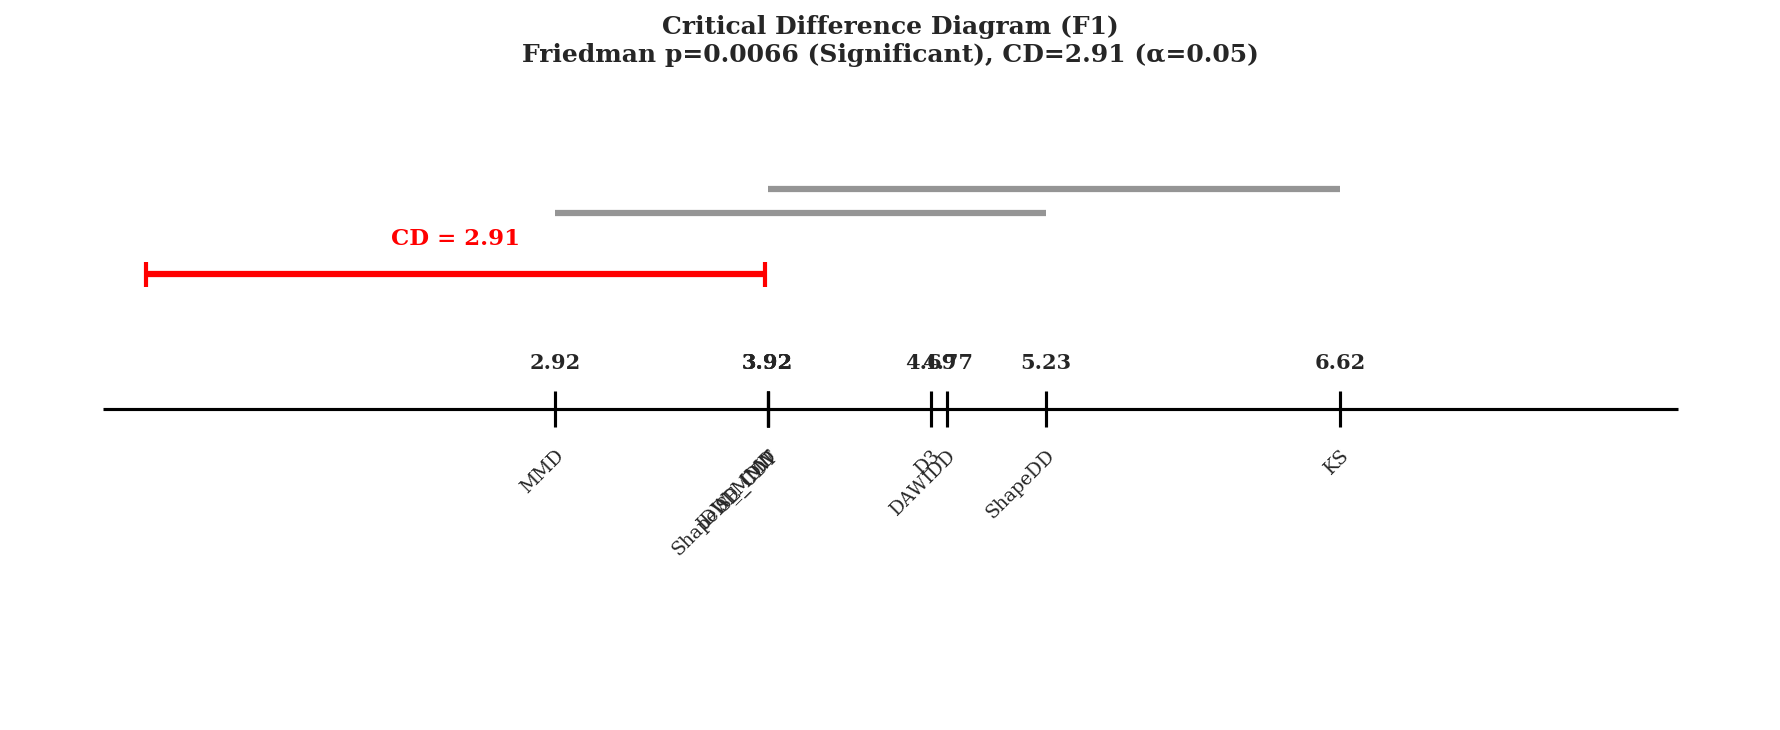
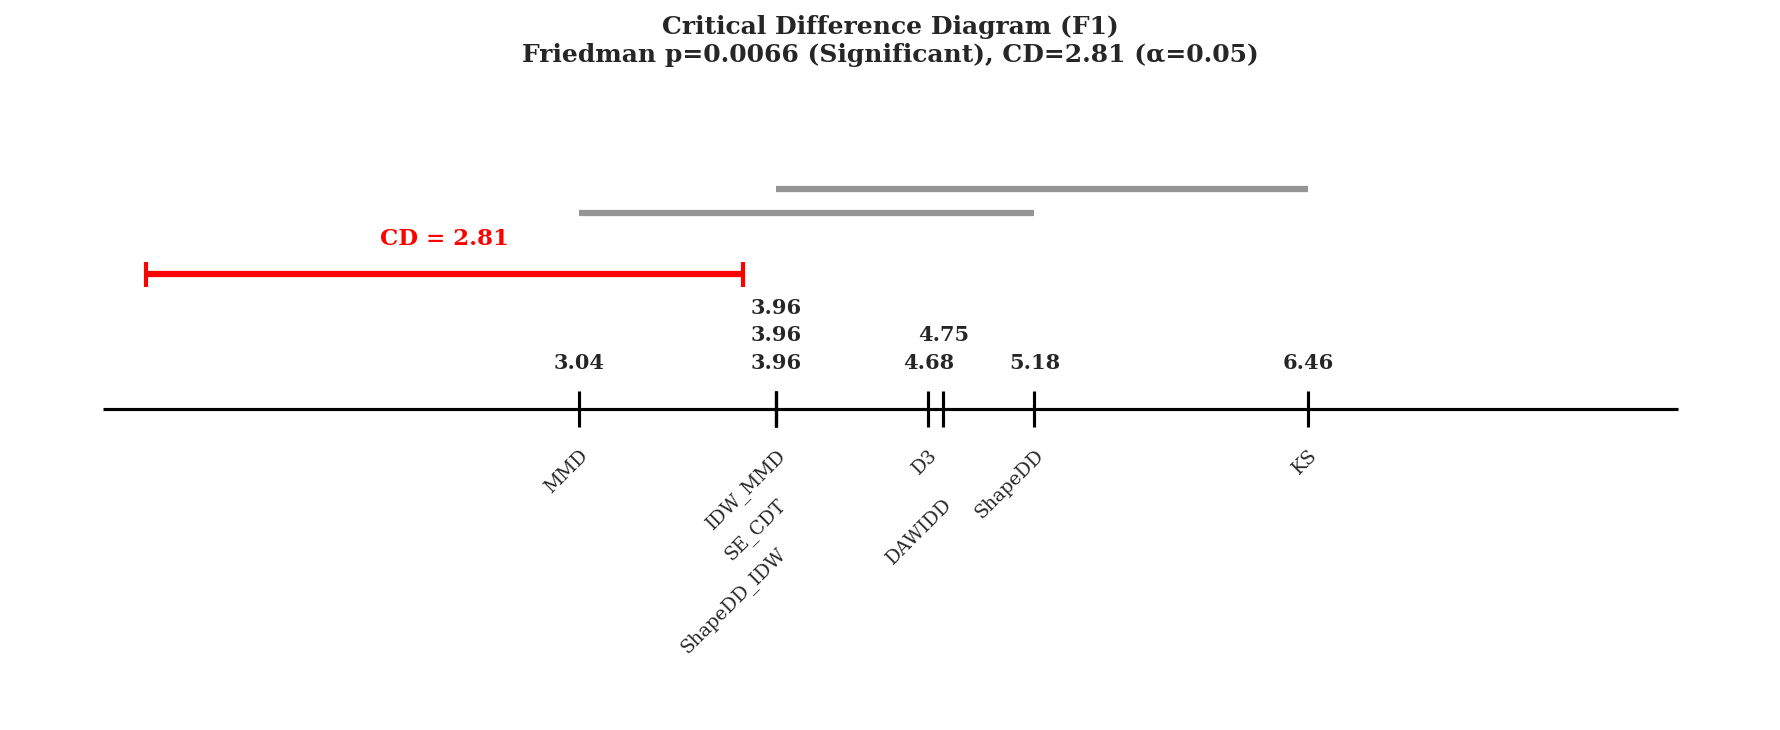
Enhance critical difference diagram plotting for improved label readability
- Implemented a mechanism to assign vertical levels to nearby labels in the critical difference diagram, reducing overlap and enhancing clarity.
- Adjusted label positions for rank numbers and method names to maintain readability.
- Updated the function call in the figure generation process to ensure correct data is used for plotting.
- Minor updates to LaTeX presentation materials for consistency in terminology and clarity.

diff --git a/report/latex/chapters/04_experiments_evaluation.tex b/report/latex/chapters/04_experiments_evaluation.tex
@@ -142,7 +142,14 @@ Bảng~\ref{tab:comprehensive_performance} so sánh hiệu suất của \textbf{
 	\label{fig:critical_difference}
 \end{figure}
 
-Kết quả kiểm định Friedman cho thấy MMD cơ bản có thứ hạng trung bình tốt nhất (3.679), tiếp theo là IDW-MMD (4.107) và DAWIDD (4.179). SE-CDT xếp hạng 5 (4.643, đồng hạng với ShapeDD-IDW theo bảng thống kê). Với ngưỡng Critical Difference CD = 2.806 ($\alpha = 0.05$), hai phương pháp được coi là không khác biệt thống kê khi khoảng cách thứ hạng nhỏ hơn CD. Khoảng cách giữa SE-CDT và phương pháp dẫn đầu (MMD) là $4.643 - 3.679 = 0.964 < 2.806$, do đó về F1 thì các phương pháp nhóm dẫn đầu không khác biệt có ý nghĩa thống kê.
+\begin{table}[H]
+	\centering
+	\caption{Thứ hạng trung bình theo F1-score trong kiểm định Friedman/Nemenyi}
+	\label{tab:statistical_tests}
+	\input{../../results/tables/table_statistical_tests.tex}
+\end{table}
+
+Kết quả kiểm định Friedman/Nemenyi trong Bảng~\ref{tab:statistical_tests} cho thấy MMD cơ bản có thứ hạng trung bình tốt nhất (3.036). Ba phương pháp IDW-MMD, SE-CDT và ShapeDD-IDW cùng đạt thứ hạng trung bình 3.964. Với ngưỡng Critical Difference CD $= 2.806$ ($\alpha = 0.05$), khoảng cách giữa SE-CDT và MMD là $3.964 - 3.036 = 0.928 < 2.806$, nên khác biệt về thứ hạng F1 giữa hai phương pháp này chưa đủ để kết luận có ý nghĩa thống kê. Điều này không mâu thuẫn với Bảng~\ref{tab:comprehensive_performance}: D3 có F1 trung bình cao nhất, còn Friedman/Nemenyi xếp hạng theo từng dataset nên phản ánh độ ổn định tương đối giữa các tập dữ liệu.
 
 SE-CDT và ShapeDD-IDW có số FP trung bình thấp hơn ShapeDD gốc (Bảng~\ref{tab:comprehensive_performance}); hành vi của bước kiểm định được phân tích thêm ở Mục~\ref{sec:h0-calibration}.
 
@@ -191,7 +198,7 @@ Hiệu suất của các phương pháp thay đổi tùy thuộc vào đặc tí
 	\item \textbf{Blip Drift:}
 	      Trên tập RBF Blips, ba phương pháp đề xuất đạt F1 $= 0.598$ ở bài toán phát hiện, gần với MMD chuẩn ($0.602$), trong khi D3 đạt cao hơn hẳn ($1.000$) nhờ classifier phân biệt cửa sổ trước và sau blip. Điều này cho thấy các thay đổi ngắn hạn có thể được phát hiện, nhưng việc phân loại đúng Blip vẫn còn khó; hạn chế này được phân tích riêng ở Mục~\ref{sec:classification-by-type}.
 	\item \textbf{Báo động giả (False Positives trong detection):}
-	      Hình~\ref{fig:stationary_fp} so sánh số FP trong bộ đánh giá phát hiện. KS-Test ghi nhận nhiều báo động sai nhất (37.8 FP/run); ba phương pháp đề xuất (SE-CDT, ShapeDD-IDW, IDW-MMD) giữ FP ở mức trung bình $\sim 14.5$/run, thấp hơn ShapeDD gốc (18.4 FP/run) và gần MMD chuẩn (15.0 FP/run). Có hai lý do giúp bước lọc này phát huy tác dụng: (i) cơ chế phát hiện hình dạng yêu cầu tín hiệu MMD phải khớp dạng tam giác đặc trưng; (ii) băng thông kernel $\gamma$ được ước lượng một lần bằng median heuristic và dùng chung cho cả ba kernel $K_{XX}, K_{YY}, K_{XY}$.
+	      Bảng~\ref{tab:comprehensive_performance} báo cáo FP trung bình theo mỗi run trên toàn bộ bộ đánh giá: KS-Test cao nhất (37.8 FP/run), trong khi ba phương pháp đề xuất (SE-CDT, ShapeDD-IDW, IDW-MMD) ở mức $\sim 14.5$ FP/run, thấp hơn ShapeDD gốc (18.4 FP/run) và gần MMD chuẩn (15.0 FP/run). Riêng Hình~\ref{fig:stationary_fp} hiển thị tổng số báo động giả trên tập dữ liệu tĩnh; do đó con số trong hình là tổng cộng sau khi gộp nhiều lần chạy, không phải FP/run. Có hai lý do giúp bước lọc này phát huy tác dụng: (i) cơ chế phát hiện hình dạng yêu cầu tín hiệu MMD phải khớp dạng tam giác đặc trưng; (ii) băng thông kernel $\gamma$ được ước lượng một lần bằng median heuristic và dùng chung cho cả ba kernel $K_{XX}, K_{YY}, K_{XY}$.
 \end{enumerate}
 
 \begin{figure}[H]
@@ -211,7 +218,7 @@ Hiệu suất của các phương pháp thay đổi tùy thuộc vào đặc tí
 \begin{figure}[H]
 	\centering
 	\includegraphics[width=0.9\textwidth]{../../results/plots/figure_4_stationary_fp.png}
-	\caption[Phân tích số lượng báo động giả trên tập dữ liệu tĩnh]{Phân tích số lượng báo động giả trên tập dữ liệu tĩnh (Stationary). KS tạo ra nhiều báo động sai nhất, trong khi các phương pháp MMD và D3 ổn định hơn.}
+	\caption[Phân tích số lượng báo động giả trên tập dữ liệu tĩnh]{Tổng số báo động giả trên tập dữ liệu tĩnh (Stationary), gộp qua các lần chạy trong benchmark. Chỉ số này bổ sung cho FP/run ở Bảng~\ref{tab:comprehensive_performance}: KS tạo ra nhiều báo động sai nhất, trong khi các phương pháp MMD-based thấp hơn rõ rệt.}
 	\label{fig:stationary_fp}
 \end{figure}
 
@@ -260,7 +267,7 @@ Bảng~\ref{tab:runtime_stats} so sánh thời gian và thông lượng.
 	\label{fig:runtime-comparison}
 \end{figure}
 
-Kết quả nổi bật là ShapeDD gốc, ShapeDD-IDW, SE-CDT và MMD chuẩn đều có thời gian chạy cùng cỡ trên luồng 10{,}000 mẫu (Bảng~\ref{tab:runtime_stats}). ShapeDD gốc đã được tối ưu khá tốt nhờ tính kernel theo lô, nên việc thay permutation test bằng xấp xỉ Gamma không làm thời gian chạy giảm mạnh, nhưng cũng không làm hệ thống chậm hơn. Đóng góp chính của ShapeDD-IDW trong thí nghiệm này là giữ được thời gian chạy tương đương ShapeDD gốc trong khi bước kiểm định có cơ sở thống kê rõ hơn (Mục~\ref{sec:h0-calibration}).
+Kết quả nổi bật là ShapeDD gốc, ShapeDD-IDW, SE-CDT và MMD chuẩn đều có thời gian chạy cùng cỡ trên luồng 10{,}000 mẫu (Bảng~\ref{tab:runtime_stats}). ShapeDD gốc đã được tối ưu khá tốt nhờ tính kernel theo lô, nên việc thay permutation test bằng xấp xỉ Gamma không làm thời gian chạy giảm mạnh theo bậc độ phức tạp, nhưng vẫn giúp ShapeDD-IDW nhanh hơn khoảng $1.27\times$ trong phép đo đầu-cuối hiện tại. Đóng góp chính của ShapeDD-IDW trong thí nghiệm này là giữ chi phí cùng cỡ với ShapeDD gốc trong khi bước kiểm định có cơ sở thống kê rõ hơn (Mục~\ref{sec:h0-calibration}).
 
 \section{Đánh giá SE-CDT phân loại drift không giám sát}
 \label{sec:classification-eval}
@@ -341,7 +348,7 @@ Bảng~\ref{tab:se-cdt-results} trình bày kết quả tổng hợp trên 1800 
 
 SE-CDT (Std) đạt \textbf{CAT $= 81.5\%$} và \textbf{SUB micro-average $= 65.6\%$} ở oracle mode. Vì micro-average bị chi phối bởi lớp đông nhất (Sudden), bảng \ref{tab:se-cdt-performance-by-type} cũng báo cáo \textbf{macro-average per-class $= 54.0\%$} để phản ánh độ cân bằng giữa 5 nhóm drift. Khi đọc kết quả trong các phần sau, cần lưu ý sự khác biệt giữa hai metric này: macro-average mới phản ánh đúng độ cân bằng của bộ phân loại trên 5 nhóm drift, trong khi micro-average tỏ ra cao hơn nhờ phân phối lớp lệch về Sudden và Recurrent trong các kịch bản benchmark.
 
-Khi không có Concept Memory, Recurrent drift bị xử lý như một chuỗi sự kiện Sudden độc lập và độ chính xác là $0\%$. Sau khi bổ sung Concept Memory (so khớp ring buffer bằng Standard MMD), độ chính xác Recurrent đạt \textbf{89.0\%}, vượt cả CDT-MSW gốc ($83.9\%$ trên benchmark UCI khác). Kết quả này cho thấy Concept Memory hoạt động đúng nguyên lý khi dữ liệu đầu vào tuân theo đúng định nghĩa Recurrent của Lu et al.~\cite{lu2018learning}.
+Khi không có Concept Memory, Recurrent drift bị xử lý như một chuỗi sự kiện Sudden độc lập và độ chính xác là $0\%$. Sau khi bổ sung Concept Memory (so khớp ring buffer bằng Standard MMD), độ chính xác Recurrent đạt \textbf{89.0\%}, cùng mức cao với kết quả recurrent mà CDT-MSW công bố ($83.9\%$ trên benchmark UCI khác). Kết quả này cho thấy Concept Memory hoạt động đúng nguyên lý khi dữ liệu đầu vào tuân theo đúng định nghĩa Recurrent của Lu et al.~\cite{lu2018learning}.
 
 \subsection{Phân tích chi tiết theo loại drift}
 \label{sec:classification-by-type}
@@ -393,14 +400,14 @@ Bảng~\ref{tab:cdt-comparison-by-type} so sánh với CDT-MSW~\cite{guo2022cdtm
 	\input{../../results/tables/table_cdt_msw_vs_se_cdt_by_drift_type.tex}
 \end{table}
 
-\textbf{Cảnh báo về tính tham khảo của bảng so sánh.} Bảng~\ref{tab:cdt-comparison-by-type} đặt cạnh nhau các con số được công bố trong paper gốc CDT-MSW~\cite{guo2022cdtmsw} (cột trái) và các con số đo trên benchmark synthetic của luận văn (cột phải). Đây \textit{không} phải là so sánh đối đầu (head-to-head) trên cùng một benchmark; hai cột vận hành trên hai phân phối dữ liệu, hai chế độ giám sát, và hai cách tính tổng hợp khác nhau:
+\textbf{Cảnh báo về tính tham khảo của bảng so sánh.} Bảng~\ref{tab:cdt-comparison-by-type} đặt cạnh nhau các con số được công bố trong bài báo CDT-MSW~\cite{guo2022cdtmsw} (cột trái) và các con số đo trên benchmark synthetic của luận văn (cột phải). Đây \textit{không} phải là so sánh trực tiếp trên cùng một benchmark; hai cột vận hành trên hai phân phối dữ liệu, hai chế độ giám sát, và hai cách tính tổng hợp khác nhau:
 \begin{itemize}
 	\item \textbf{Dữ liệu khác nhau:} CDT-MSW chạy trên 10 tập UCI thực tế (Banana, Titanic, Thyroid, KDDCup99, MITface, USPS, \dots) với số lượng features và độ phức tạp khác nhau; SE-CDT chạy trên 6 kịch bản synthetic Gaussian 5 chiều đã mô tả ở Mục~\ref{sec:classification-setup}.
 	\item \textbf{Mức giám sát khác nhau:} CDT-MSW là phương pháp \textit{supervised}, dùng nhãn $y$ để tính accuracy ratio; SE-CDT là \textit{unsupervised}, chỉ dựa trên $P(X)$.
 	\item \textbf{Cách tính khác nhau:} ACC\_subcat của CDT-MSW là \textit{conditional} (tính trên các drift đã được phát hiện đúng và phân nhóm đúng); SUB của SE-CDT là \textit{unconditional} (tính trên toàn bộ sự kiện ground truth, kể cả những lần phát hiện sai). Với SE-CDT, macro-average theo lớp là $54.0\%$ như đã trình bày ở Bảng~\ref{tab:se-cdt-performance-by-type}.
-	\item \textbf{Recall không cùng metric:} Trên paper gốc, CDT-MSW đạt MDR trung bình $17.5\%$, tương đương $\text{Recall} = 1 - \overline{\text{MDR}} = 82.5\%$\footnote{Trong paper~\cite{guo2022cdtmsw}, từ ``EDR'' được định nghĩa là \textit{Error Detection Rate} (tỉ lệ báo nhầm, càng thấp càng tốt), khác với cách đặt tên EDR (\textit{Event Detection Rate}, tương đương Recall) ở luận văn này. Vì vậy giá trị 82.5\% được suy từ MDR Bảng 5 của paper.}.
+	\item \textbf{Recall không cùng metric:} Trong bài báo gốc, CDT-MSW đạt MDR trung bình $17.5\%$, tương đương $\text{Recall} = 1 - \overline{\text{MDR}} = 82.5\%$\footnote{Trong bài báo~\cite{guo2022cdtmsw}, từ ``EDR'' được định nghĩa là \textit{Error Detection Rate} (tỉ lệ báo nhầm, càng thấp càng tốt), khác với cách đặt tên EDR (\textit{Event Detection Rate}, tương đương Recall) ở luận văn này. Vì vậy giá trị 82.5\% được suy từ MDR Bảng 5 của bài báo.}.
 \end{itemize}
-Vì các điều kiện vận hành khác nhau, bảng nên được đọc theo nghĩa: SE-CDT chạy không cần nhãn trên dữ liệu Gaussian 5-D có ground truth chính xác, và đạt được mức accuracy phân loại nằm trong phạm vi cạnh tranh với CDT-MSW supervised trên dữ liệu UCI thực tế. Luận văn không khẳng định SE-CDT vượt CDT-MSW trên cùng setup. Một so sánh đối đầu thực sự cần triển khai SE-CDT trên chính các tập UCI gốc và đo lại CDT-MSW trên dữ liệu synthetic của luận văn; đây là hướng phát triển tự nhiên (Chương~\ref{chap:conclusion}).
+Vì các điều kiện vận hành khác nhau, bảng nên được đọc theo nghĩa: SE-CDT chạy không cần nhãn trên dữ liệu Gaussian 5-D có ground truth chính xác, và đạt được mức accuracy phân loại nằm trong phạm vi cạnh tranh với CDT-MSW supervised trên dữ liệu UCI thực tế. Luận văn không khẳng định SE-CDT vượt CDT-MSW trên cùng thiết lập. Một so sánh trực tiếp thực sự cần triển khai SE-CDT trên chính các tập UCI gốc và đo lại CDT-MSW trên dữ liệu synthetic của luận văn; đây là hướng phát triển tự nhiên (Chương~\ref{chap:conclusion}).
 
 \section{Đánh giá khả năng thích ứng mô hình}
 \label{sec:adaptation-eval}
@@ -459,14 +466,14 @@ Bảng~\ref{tab:prequential-results} tổng hợp kết quả Prequential Accura
 	\item Sudden:   $\chi^2 = 86.76$, $p = 1.09 \times 10^{-18}$
 	\item Mixed:    $\chi^2 = 76.32$, $p = 1.89 \times 10^{-16}$
 \end{itemize}
-Trên cả ba kịch bản, $p \ll 0.05$ nên có đủ bằng chứng thống kê để bác bỏ giả thuyết H0 ``bốn chiến lược cho cùng phân phối accuracy''. Khác biệt giữa các chiến lược do đó là có ý nghĩa thống kê chứ không phải dao động ngẫu nhiên.
+Trên cả ba kịch bản, $p \ll 0.05$ nên có đủ bằng chứng thống kê để bác bỏ giả thuyết H0 ``bốn chiến lược cho cùng phân phối accuracy''. Kết quả này xác nhận khác biệt tổng thể giữa các chiến lược; các chênh lệch theo từng cặp bên dưới được diễn giải theo độ lớn quan sát được, không thay cho một kiểm định hậu nghiệm riêng cho từng cặp.
 
 \begin{itemize}
 	\item \textbf{Stepping ($+16.57$pp so với No Adaptation):} Khi không thích ứng, độ chính xác giảm về $54.80\%$ do phân phối liên tục dịch chuyển. Type-Specific giữ ở $71.37\%$, hơn Simple Retrain $+8.42$pp và Periodic Retrain $+7.34$pp. Hai baseline retrain không phân biệt loại đạt kết quả gần như nhau (khoảng $63\%$), cho thấy việc lựa chọn chiến lược theo loại drift đem lại lợi ích lớn hơn việc chỉ chọn thời điểm retrain.
 	\item \textbf{Sudden ($+17.10$pp so với No Adaptation):} Type-Specific đạt $70.78\%$, hơn Simple Retrain $+8.62$pp và Periodic Retrain $+7.13$pp. Mỗi sự kiện ở đây là concept mới, vì vậy chiến lược Full Reset trên cửa sổ post-drift hoạt động đúng nhịp: mô hình cũ bị thay thế ngay khi không còn phù hợp, tránh kéo theo dữ liệu pre-drift đã không còn giá trị.
 	\item \textbf{Mixed ($+3.51$pp so với No Adaptation):} Type-Specific đạt $86.20\%$, hơn Simple Retrain $+1.96$pp và Periodic Retrain $+0.11$pp. Trên kịch bản này, Periodic Retrain bám sát Type-Specific vì lịch retrain định kỳ ($500$ mẫu) trùng nhịp với mật độ drift dày đặc; nhưng Periodic Retrain có FP cao gấp $\sim 6\times$ ($15.5$ vs $2.7$), thể hiện chi phí của việc retrain mù.
 	\item \textbf{False Positives.} Type-Specific và Simple Retrain có FP thấp ($1.8$--$2.7$/run) nhờ cơ chế thu hẹp bộ đệm sau mỗi lần thích ứng, ngăn detector kích hoạt nhiều lần trên cùng một sự kiện. Periodic Retrain và No Adaptation không thay đổi bộ đệm theo tín hiệu detector nên ghi nhận nhiều cảnh báo lặp ($\sim 15$--$18$/run). Số FP $> 0$ ở đây phản ánh test Gamma-approximation đã được hiệu chỉnh đúng tại $\alpha = 0.05$ (Mục~\ref{sec:h0-calibration}).
-	\item \textbf{Độ tin cậy thống kê.} Với $N = 30$ và độ lệch chuẩn $\sim 3\%$, khoảng tin cậy 95\% là $\pm 1.1\%$, đủ chặt để khẳng định chênh lệch $> 7\%$ giữa Type-Specific và các baseline là có ý nghĩa thống kê (Friedman $p \ll 0.05$).
+	\item \textbf{Độ tin cậy thống kê.} Với $N = 30$ và độ lệch chuẩn $\sim 3\%$, khoảng tin cậy 95\% khoảng $\pm 1.1\%$, giúp các chênh lệch lớn hơn 7 điểm phần trăm trên Stepping và Sudden ổn định hơn về mặt thực nghiệm. Kiểm định Friedman bổ sung bằng chứng rằng bốn chiến lược có khác biệt tổng thể rõ rệt ($p \ll 0.05$).
 \end{itemize}
 
 \begin{figure}[H]
@@ -477,7 +484,7 @@ Trên cả ba kịch bản, $p \ll 0.05$ nên có đủ bằng chứng thống k
 \end{figure}
 
 \paragraph{So sánh với Sudden Drift.}
-Trên Sudden Drift (Hình~\ref{fig:prequential_sudden}), No Adaptation giảm về $53.68\%$ do toàn bộ phân phối thay đổi sau mỗi sự kiện. Type-Specific đạt $70.78\%$, cách Simple Retrain $+8.62$pp và Periodic Retrain $+7.13$pp. Cả hai kịch bản Stepping và Sudden cho cùng mức kết quả (Type-Specific $\approx 71\%$, No Adaptation $\approx 54\%$, Simple/Periodic $\approx 63\%$) với cùng pipeline, chỉ ra rằng phần lớn cải thiện đến từ bước phân loại drift trước khi quyết định cách thích ứng, không phải từ riêng cơ chế phát hiện.
+Trên Sudden Drift (Hình~\ref{fig:prequential_sudden}), No Adaptation giảm về $53.68\%$ do toàn bộ phân phối thay đổi sau mỗi sự kiện. Type-Specific đạt $70.78\%$, cách Simple Retrain $+8.62$pp và Periodic Retrain $+7.13$pp. Cả hai kịch bản Stepping và Sudden cho cùng mức kết quả (Type-Specific $\approx 71\%$, No Adaptation $\approx 54\%$, Simple/Periodic $\approx 63\%$) trong cùng quy trình đánh giá, chỉ ra rằng phần lớn cải thiện đến từ bước phân loại drift trước khi quyết định cách thích ứng, không phải từ riêng cơ chế phát hiện.
 
 \begin{figure}[H]
 	\centering
@@ -512,7 +519,7 @@ Hình~\ref{fig:kafka_real_results} trình bày dashboard giám sát từ lần c
 \begin{itemize}
 	\item \textbf{Độ trễ phát hiện:} Drift được đặt tại mẫu 1500 trong dữ liệu. ShapeDD xác định điểm drift tại mẫu 1476. Đây là vị trí đỉnh tam giác ước lượng (triangle peak position) từ tín hiệu tích chập ShapeDD, không phải thời điểm xử lý thực. Do cơ chế cửa sổ trượt và lọc hình dạng, vị trí drift báo cáo có thể lệch so với nhãn danh nghĩa $\pm l_1$ (với $l_1 = 50$ là kích thước nửa cửa sổ reference), nằm trong giới hạn chấp nhận của ShapeDD.
 	\item \textbf{Quy trình khép kín:} Log hệ thống xác nhận Consumer đã nhận tín hiệu cập nhật từ bộ thích ứng và tải lại mô hình thành công tại mẫu 2277.
-	\item \textbf{Hiệu quả phục hồi:} Độ chính xác tăng từ mức 59\% (gần ngẫu nhiên) lên 93\% ngay sau khi mô hình mới được tải, khớp với hành vi mong đợi của pipeline.
+	\item \textbf{Hiệu quả phục hồi:} Độ chính xác tăng từ mức 59\% (gần ngẫu nhiên) lên 93\% ngay sau khi mô hình mới được tải, khớp với hành vi mong đợi của quy trình thích ứng.
 \end{itemize}
 
 \section{Kết luận chương}
@@ -521,7 +528,7 @@ Có thể tóm tắt các kết quả thực nghiệm như sau:
 \begin{enumerate}
 	\item \textbf{Detection:} ShapeDD-IDW (tín hiệu Standard MMD + kiểm định IDW-MMD bằng xấp xỉ Gamma) đạt $F_1 = 0.459$ với $\sim 14.5$ FP/run trên benchmark phát hiện ($\delta = 75$, 14 datasets, 30 seeds), nhỉnh hơn ShapeDD gốc ($F_1 = 0.433$, $18.4$ FP) và chạy nhanh hơn khoảng $1.27\times$ trong phép đo đầu-cuối (Bảng~\ref{tab:runtime_stats}). Kiểm định IDW-MMD bằng xấp xỉ Gamma đạt Type-I error $0.040$--$0.075$ trên ba phân phối tĩnh; khi ghép vào SE-CDT, Type-I error có thể tăng tới $0.100$ do kiểm định nhiều đỉnh ứng viên (Mục~\ref{sec:h0-calibration}).
 	\item \textbf{Classification:} SE-CDT (Standard MMD + Concept Memory + Self-Calibration) đạt CAT $= \textbf{81.5\%}$, SUB micro-average $= \textbf{65.6\%}$, SUB macro-average $= \textbf{54.0\%}$ ở oracle mode mà không cần nhãn. Tỉ lệ phát hiện sự kiện EDR đạt \textbf{92.6\%}. Recurrent đạt $\textbf{89.0\%}$ nhờ Concept Memory; Incremental đạt $65.6\%$ nhờ bổ sung các đặc trưng theo thời gian vào cây quyết định.
-	\item \textbf{Adaptation:} Trên kết quả $N = 30$ với kiểm định Friedman, Type-Specific Adaptation hơn No Adaptation $+16.57$pp trên Stepping ($71.37\%$ vs $54.80\%$), $+17.10$pp trên Sudden ($70.78\%$ vs $53.68\%$), và $+3.51$pp trên Mixed ($86.20\%$ vs $82.69\%$). Type-Specific cũng vượt Simple Retrain ($+1.96$ đến $+8.62$pp) và Periodic Retrain ($+0.11$ đến $+7.34$pp) trên cả ba kịch bản, với khác biệt có ý nghĩa thống kê mạnh ($p < 10^{-15}$). Cơ chế thu hẹp bộ đệm sau mỗi lần thích ứng giữ FP thấp ($\sim 2$/run) cho Type-Specific và Simple Retrain so với $\sim 16$/run của các baseline không dùng detector signal.
+	\item \textbf{Adaptation:} Trên kết quả $N = 30$, Type-Specific hơn No Adaptation $+16.57$pp trên Stepping ($71.37\%$ vs $54.80\%$), $+17.10$pp trên Sudden ($70.78\%$ vs $53.68\%$), và $+3.51$pp trên Mixed ($86.20\%$ vs $82.69\%$). Type-Specific cũng cao hơn Simple Retrain và Periodic Retrain trên cả ba kịch bản. Kiểm định Friedman cho thấy bốn chiến lược khác biệt tổng thể rất rõ ($p < 10^{-15}$). Cơ chế thu hẹp bộ đệm sau mỗi lần thích ứng giữ FP thấp ($\sim 2$/run), so với $\sim 16$/run ở các baseline không dùng tín hiệu phát hiện.
 \end{enumerate}
 
 Kết quả này cho thấy kiến trúc đề xuất khả thi cho các hệ thống giám sát luồng dữ liệu thời gian thực.

diff --git a/experiments/benchmark/analysis/visualization.py b/experiments/benchmark/analysis/visualization.py
@@ -211,18 +211,34 @@ def plot_critical_difference_diagram(results_df, metric='F1', output_dir=None, a
     # ===== Draw Tick Marks and Labels =====
     rank_to_x = lambda r: (r - 1) / (n_methods - 1) * 0.85 + 0.075
 
+    # Assign nearby labels to different vertical levels to avoid unreadable overlap.
+    min_label_gap = 0.045
+    occupied_by_level = []
+    label_level_by_method = {}
+    for method, rank in sorted_methods.items():
+        x_pos = rank_to_x(rank)
+        for level, occupied in enumerate(occupied_by_level):
+            if all(abs(x_pos - prev_x) >= min_label_gap for prev_x in occupied):
+                occupied.append(x_pos)
+                label_level_by_method[method] = level
+                break
+        else:
+            occupied_by_level.append([x_pos])
+            label_level_by_method[method] = len(occupied_by_level) - 1
+
     for i, (method, rank) in enumerate(sorted_methods.items()):
         x_pos = rank_to_x(rank)
+        level = label_level_by_method[method]
         
         # Tick mark
         ax.vlines(x_pos, 0.47, 0.53, colors='black', linewidth=1.5)
         
         # Rank number above axis
-        ax.text(x_pos, 0.56, f'{rank:.2f}', ha='center', va='bottom', 
+        ax.text(x_pos, 0.56 + level * 0.045, f'{rank:.2f}', ha='center', va='bottom', 
                 fontsize=10, fontweight='bold')
         
-        # Method name below axis (rotated)
-        ax.text(x_pos, 0.44, method, ha='right', va='top', fontsize=9, 
+        # Method name below axis (rotated). Offset tied ranks to keep labels readable.
+        ax.text(x_pos, 0.44 - level * 0.08, method, ha='right', va='top', fontsize=9, 
                 rotation=45, rotation_mode='anchor')
 
     # ===== Draw CD Bar =====
@@ -617,7 +633,7 @@ def generate_all_figures(all_results, output_dir=PLOTS_DIR):
     print("\n[8/8] Critical Difference Diagram...")
 
     try:
-        plot_critical_difference_diagram(drift_results, metric='F1', output_dir=output_dir)
+        plot_critical_difference_diagram(results_df, metric='F1', output_dir=output_dir)
     except Exception as e:
         print(f"  Warning: Could not generate CD diagram: {e}")
 

diff --git a/report/latex/chapters/03_proposed_model.tex b/report/latex/chapters/03_proposed_model.tex
@@ -385,25 +385,25 @@ SE-CDT có một số ưu điểm nổi bật so với CDT-MSW:
 \begin{itemize}
 	\item \textbf{Không giám sát:} Hoạt động theo kiểu không giám sát, không cần nhãn dữ liệu, phù hợp với dữ liệu luồng.
 	\item \textbf{Tích hợp:} Sử dụng tín hiệu Standard MMD $\sigma(t)$ đã tính trong quá trình phát hiện ứng viên drift, không cần thêm một nguồn tín hiệu riêng.
-	\item \textbf{Thời gian thực:} Phân loại ngay sau khi phát hiện drift với chi phí $O(m)$ tuyến tính --- rất nhỏ so với bước detection.
+	\item \textbf{Thời gian thực:} Phân loại ngay sau khi phát hiện drift với chi phí $O(m)$ tuyến tính --- rất nhỏ so với bước phát hiện.
 	\item \textbf{Phân tách phát hiện và phân loại:} Bước phát hiện dùng IDW-MMD để kiểm định ứng viên, còn bước phân loại dùng hình dạng của tín hiệu Standard MMD để xác định loại drift.
 \end{itemize}
 
-Về độ phức tạp tính toán của toàn pipeline:
+Về độ phức tạp tính toán của toàn bộ quy trình:
 \begin{itemize}
 	\item \textbf{Detection (ShapeDD-IDW):} $O(n^2 \cdot T/\text{step})$ với $n$ = kích thước cửa sổ, $T$ = độ dài stream, step = bước trượt. Đây là bước chiếm chi phí chính.
-	\item \textbf{Classification (SE-CDT)}, chạy sau khi detection trả về $\sigma(t)$ với $m$ điểm:
+	\item \textbf{Classification (SE-CDT)}, chạy sau khi bước phát hiện trả về $\sigma(t)$ với $m$ điểm:
 	\begin{itemize}
 		\item Làm mượt tín hiệu: $O(m)$
 		\item Tìm cực đại cục bộ: $O(m)$
 		\item Trích đặc trưng từ các peak: $O(n_p)$ với $n_p$ là số peak
 		\item So sánh ngưỡng để phân loại: $O(1)$
 	\end{itemize}
-	\item \textbf{Tổng classification:} $O(m)$ --- tuyến tính, không đáng kể so với detection.
-	\item \textbf{Tổng pipeline:} Bottleneck nằm ở detection: $O(n^2 \cdot T/\text{step})$.
+	\item \textbf{Tổng chi phí phân loại:} $O(m)$ --- tuyến tính, không đáng kể so với bước phát hiện.
+	\item \textbf{Tổng chi phí quy trình:} Chi phí chính nằm ở bước phát hiện: $O(n^2 \cdot T/\text{step})$.
 \end{itemize}
 
-Nói gọn lại: bước classification về cơ bản không tốn thêm chi phí đáng kể. Toàn bộ gánh nặng tính toán nằm ở bước detection.
+Nói gọn lại: bước phân loại về cơ bản không tốn thêm chi phí đáng kể. Toàn bộ gánh nặng tính toán nằm ở bước phát hiện.
 
 \subsection{Giải thích lựa chọn ngưỡng}
 Các ngưỡng trong Algorithm~\ref{alg:se-cdt} được xác định qua phân tích thực nghiệm trên synthetic datasets (với cửa sổ chuẩn $n, m \approx 200$) và tinh chỉnh qua nhiều vòng lặp:

diff --git a/report/latex/chapters/05_conclusion_future_work.tex b/report/latex/chapters/05_conclusion_future_work.tex
@@ -21,7 +21,7 @@ Luận văn giải quyết bài toán phát hiện và thích ứng với concep
 \begin{itemize}
 	\item \textbf{Benchmark mở rộng và chặt chẽ hơn:} Đánh giá có hệ thống 8 phương pháp phát hiện drift (MMD, IDW-MMD, KS, ShapeDD, ShapeDD-IDW, SE-CDT, D3, DAWIDD) trên 14 tập dữ liệu, có bổ sung tập Stagger Recurrent Explicit (recurrent đối xứng A→B→A→B), tập Gaussian Gradual Synthetic (gradual có khoảng chuyển tiếp xác định trước) và tập stationary (baseline đo false positive). Kết quả được kiểm chứng bằng kiểm định Friedman và Nemenyi với 30 lần chạy độc lập, $\alpha = 0.05$.
 	\item \textbf{Kiểm tra Type-I error:} Đo Type-I error trực tiếp trên ba phân phối tĩnh (Gauss-iid $d=5$, $d=10$, AR(1)). Kết quả cho thấy MMD chuẩn và IDW-MMD với xấp xỉ Gamma nằm gần mức danh nghĩa $\alpha = 0.05$; SE-CDT có thể cao hơn nhẹ do kiểm định nhiều đỉnh ứng viên trong cùng một cửa sổ (Mục~\ref{sec:h0-calibration}).
-	\item \textbf{Đánh giá thích ứng có ý nghĩa thống kê:} Prequential evaluation với $N = 30$ runs trên 3 kịch bản (Stepping, Sudden, Mixed) bổ sung kiểm định Friedman, cho $p < 10^{-15}$ trên cả ba, xác lập rằng các baseline thích ứng (Type-Specific, Simple Retrain, Periodic Retrain, No Adaptation) khác biệt có ý nghĩa thống kê chứ không phải dao động ngẫu nhiên.
+	\item \textbf{Đánh giá thích ứng có ý nghĩa thống kê:} Prequential evaluation với $N = 30$ runs trên 3 kịch bản (Stepping, Sudden, Mixed) bổ sung kiểm định Friedman, cho $p < 10^{-15}$ trên cả ba, xác lập rằng bốn chiến lược thích ứng (Type-Specific, Simple Retrain, Periodic Retrain, No Adaptation) có khác biệt tổng thể rõ rệt chứ không chỉ là dao động ngẫu nhiên.
 	\item \textbf{Phân tích thời gian chạy:} Đo trên luồng tiêu chuẩn của benchmark (Bảng~\ref{tab:runtime_stats}). ShapeDD-IDW và SE-CDT nằm cùng nhóm thời gian với ShapeDD gốc, nhanh hơn ShapeDD gốc lần lượt khoảng $1.27\times$ và $1.25\times$, đồng thời nhanh hơn DAWIDD đáng kể. Vì cả hai biến thể đều dựa trên phép tính kernel theo cửa sổ trượt, đóng góp của xấp xỉ Gamma nên được hiểu là giảm chi phí kiểm định và làm rõ cơ sở thống kê, không phải thay đổi hoàn toàn bậc độ phức tạp của hệ thống.
 	\item \textbf{Xác nhận phạm vi không giám sát:} Trên các dataset chủ yếu thay đổi ở $P(Y|X)$ như Hyperplane, Led Abrupt và Standard Sea, điểm F1 của SE-CDT/ShapeDD-IDW rất thấp. Điều này phù hợp với phạm vi của phương pháp vì hệ thống chỉ quan sát thay đổi của $P(X)$; các báo động còn lại chủ yếu phản ánh nhiễu mẫu và cách đánh giá theo cửa sổ.
 \end{itemize}
@@ -34,14 +34,14 @@ Luận văn giải quyết bài toán phát hiện và thích ứng với concep
 
 \section{Những phát hiện và hiểu biết chính}
 
-Quá trình nghiên cứu và thực nghiệm cho thấy mấy điểm sau:
+Quá trình nghiên cứu và thực nghiệm cho thấy các điểm chính sau:
 
 \begin{enumerate}
 	\item \textbf{Cấu hình cửa sổ ảnh hưởng mạnh đến kết quả:} Các thí nghiệm cho thấy kích thước cửa sổ và độ trễ chấp nhận cần được chọn theo mục tiêu đánh giá. Drift đột ngột cần cửa sổ và ngưỡng định vị chặt hơn, trong khi drift dần dần hoặc thích ứng mô hình cần khoảng quan sát rộng hơn.
 
 	\item \textbf{Đánh đổi giữa độ nhạy và báo động giả:} Việc tích hợp IDW-MMD với p-value dựa trên xấp xỉ Gamma giữ được độ chính xác cạnh tranh ($F_1 = 0.459$, so với KS $0.294$ và ShapeDD gốc $0.433$). Thời gian chạy đầu-cuối nhanh hơn ShapeDD gốc khoảng $1.27\times$ trong benchmark hiện tại. Đóng góp chính nằm ở chỗ bước kiểm định có cơ sở thống kê rõ hơn, đồng thời giảm một phần chi phí thực thi.
 
-	\item \textbf{Hiệu quả của Type-Specific Adaptation:} Trên kết quả $N=30$, Type-Specific Adaptation hơn No Adaptation $+16.57$pp trên Stepping ($71.37\%$ vs $54.80\%$), $+17.10$pp trên Sudden ($70.78\%$ vs $53.68\%$), và $+3.51$pp trên Mixed ($86.20\%$ vs $82.69\%$). Type-Specific cũng vượt Simple Retrain và Periodic Retrain trên cả ba kịch bản. Kiểm định Friedman cho $p < 10^{-15}$, cho thấy khác biệt giữa các chiến lược khó quy cho dao động ngẫu nhiên. Phần lớn cải thiện đến từ bước phân loại drift trước khi chọn chiến lược thích ứng.
+	\item \textbf{Hiệu quả của Type-Specific Adaptation:} Trên kết quả $N=30$, Type-Specific Adaptation hơn No Adaptation $+16.57$pp trên Stepping ($71.37\%$ vs $54.80\%$), $+17.10$pp trên Sudden ($70.78\%$ vs $53.68\%$), và $+3.51$pp trên Mixed ($86.20\%$ vs $82.69\%$). Type-Specific cũng cao hơn Simple Retrain và Periodic Retrain trên cả ba kịch bản. Kiểm định Friedman cho $p < 10^{-15}$, cho thấy bốn chiến lược có khác biệt tổng thể rõ rệt; các chênh lệch theo từng cặp cần được đọc cùng độ lớn quan sát được ở Chương~\ref{chap:experiments}. Phần lớn cải thiện đến từ bước phân loại drift trước khi chọn chiến lược thích ứng.
 
 	\item \textbf{Vai trò của Phân loại Drift:} Xác định đúng loại drift (ví dụ Blip với Sudden) giúp tránh phản ứng thái quá với nhiễu. Chiến lược thích ứng theo loại drift giúp hệ thống vận hành ổn định và tiết kiệm tài nguyên.
 \end{enumerate}
@@ -140,7 +140,7 @@ Bài toán concept drift là một bài toán mở. Luận văn đóng góp các
 	\item \textbf{Phát hiện có cơ sở thống kê hơn:} IDW-MMD kết hợp p-value dựa trên xấp xỉ Gamma đạt Type-I error $0.040$--$0.075$ trên ba phân phối tĩnh (Bảng~\ref{tab:h0_calibration}). Khi tích hợp trong ShapeDD-IDW, phương pháp đạt F1 nhỉnh hơn ShapeDD gốc trên benchmark phát hiện (Bảng~\ref{tab:comprehensive_performance}) và chạy nhanh hơn khoảng $1.27\times$ trong phép đo đầu-cuối (Bảng~\ref{tab:runtime_stats}).
 	\item \textbf{Báo động giả cần được đọc theo ngữ cảnh:} Số False Positive phụ thuộc vào số ứng viên được kiểm định, độ trễ chấp nhận và mức $\alpha$. Nếu ứng dụng cần FP thấp hơn, có thể siết $\alpha$ hoặc dùng hiệu chỉnh đa kiểm định, đổi lại khả năng phát hiện có thể giảm.
 	\item \textbf{Phân loại không giám sát:} SE-CDT phân loại drift không cần nhãn, đạt CAT $= 81.5\%$ và SUB micro $= 65.6\%$; Concept Memory giúp độ chính xác Recurrent đạt $89.0\%$. So sánh với CDT-MSW chỉ mang tính tham khảo vì hai phương pháp dùng dữ liệu và mức giám sát khác nhau.
-	\item \textbf{Thích ứng hiệu quả:} Type-Specific Adaptation cải thiện hai chữ số phần trăm trên Stepping và Sudden so với No Adaptation, đồng thời vượt Simple Retrain và Periodic Retrain trên cả ba kịch bản (chi tiết ở Bảng so sánh adaptation, Chương~\ref{chap:experiments}). Các khác biệt có $p < 10^{-15}$ qua kiểm định Friedman ($N = 30$ runs).
+	\item \textbf{Thích ứng hiệu quả:} Type-Specific Adaptation cải thiện hai chữ số phần trăm trên Stepping và Sudden so với No Adaptation, đồng thời cao hơn Simple Retrain và Periodic Retrain trên cả ba kịch bản (chi tiết ở Bảng so sánh adaptation, Chương~\ref{chap:experiments}). Kiểm định Friedman cho thấy bốn chiến lược khác biệt tổng thể rất rõ ($p < 10^{-15}$, $N = 30$ runs).
 \end{enumerate}
 
 Kết quả cho thấy việc chuyển từ mô hình tĩnh sang hệ thống thích ứng là một hướng đi cần thiết. Các bước phát triển tiếp theo như mở rộng tự hiệu chỉnh ngưỡng, thay cây quyết định bằng mô hình có độ tin cậy xác suất, và kiểm chứng trên dữ liệu thực tế có thể tiếp tục củng cố tính khả thi của hệ thống.

diff --git a/report/latex/presentation.tex b/report/latex/presentation.tex
@@ -138,7 +138,7 @@
 		\begin{column}{0.48\textwidth}
 			\begin{block}{Three Main Contributions}
 				\begin{enumerate}
-					\item \textbf{Detection (ShapeDD-IDW):} inverse density weighting + Gamma-null p-value $\to$ a properly calibrated test ($\alpha = 0.05$) at the same end-to-end runtime as the baseline.
+					\item \textbf{Detection (ShapeDD-IDW):} inverse density weighting + Gamma-null p-value $\to$ a calibrated test ($\alpha = 0.05$) with a modest end-to-end speedup over ShapeDD.
 					\item \textbf{Classification (SE-CDT):} an unsupervised geometric analyzer that labels 5 drift types directly from the MMD signal $\sigma(t)$.
 					\item \textbf{Adaptation:} a type-aware router that picks an update strategy (full reset, warm-start, model cache, ignore) based on the detected drift type.
 				\end{enumerate}
@@ -499,7 +499,7 @@
 
 			\vspace{0.5em}
 			\includegraphics[width=\linewidth]{figure_4_stationary_fp.png}
-			\captionof{figure}{\scriptsize False Positives across methods --- SE-CDT $\approx 14.5$ FP/run, calibrated at $\alpha = 0.05$}
+			\captionof{figure}{\scriptsize Stationary false positives, total counts; FP/run is reported in the table.}
 		\end{column}
 		\begin{column}{0.5\textwidth}
 			\textbf{Compared against 7 baselines:}
@@ -778,7 +778,7 @@
 			\begin{enumerate}
 				\item \textbf{Properly calibrated test ($\alpha = 0.05$)} --- empirical Type-I error inside the 95\% CI on 3 stationary distributions.
 				\item \textbf{Classification module on top of detection} --- gives a drift type, not just a flag.
-				\item \textbf{Runtime on par with baseline} thanks to the Gamma-null p-value (no kernel re-build per shuffle).
+				\item \textbf{Modest runtime speedup over ShapeDD} thanks to the Gamma-null p-value (no kernel re-build per shuffle).
 				\item Stays \textbf{fully unsupervised} at runtime.
 			\end{enumerate}
 